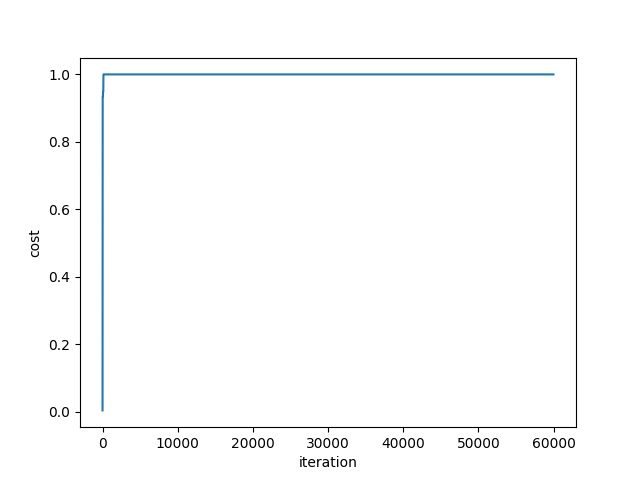
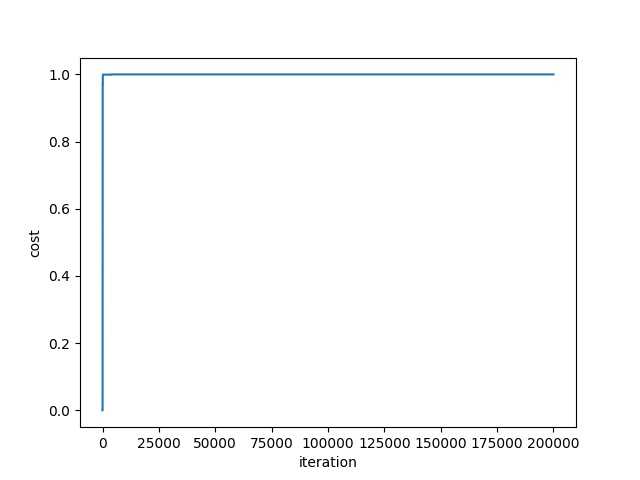
checkpoint

diff --git a/random/maximize_function/maximize-function.py b/random/maximize_function/maximize-function.py
@@ -77,12 +77,13 @@ class MaximizeFuntionSolver:
 
 
 if __name__ == '__main__':
-    seeds = [[2, 2], [3.5 + np.random.randn(), 3.5 + np.random.randn()]]
+    seeds = [[2, 2], [7, -10]]
     for [x, y] in seeds:
         solver = MaximizeFuntionSolver(x, y)
 
         start_time = time.time()
-        function, steps, costs = solver.HillClimbing(60000)
+        function, steps, costs = solver.HillClimbing(200000)
+        print(function)
         with open('results/HillClimbing/log.txt', 'w') as f:
             f.write("RESULT\n{0}\nCOST: {1}\n{2} seconds\n".format(function, function.cost(), round((time.time() - start_time), 2)))
         plt.cla()
@@ -92,8 +93,8 @@ if __name__ == '__main__':
         plt.savefig('results/HillClimbing/log.jpg')
 
         start_time = time.time()
-        function, steps, costs = solver.SimulatedAnnealing(60000)
-        print(costs[-1])
+        function, steps, costs = solver.SimulatedAnnealing(200000)
+        print(function)
         with open('results/SimulatedAnnealing/log.txt', 'w') as f:
             f.write("RESULT\n{0}\nCOST: {1}\n{2} seconds\n".format(function, function.cost(), round((time.time() - start_time), 2)))
         plt.cla()
